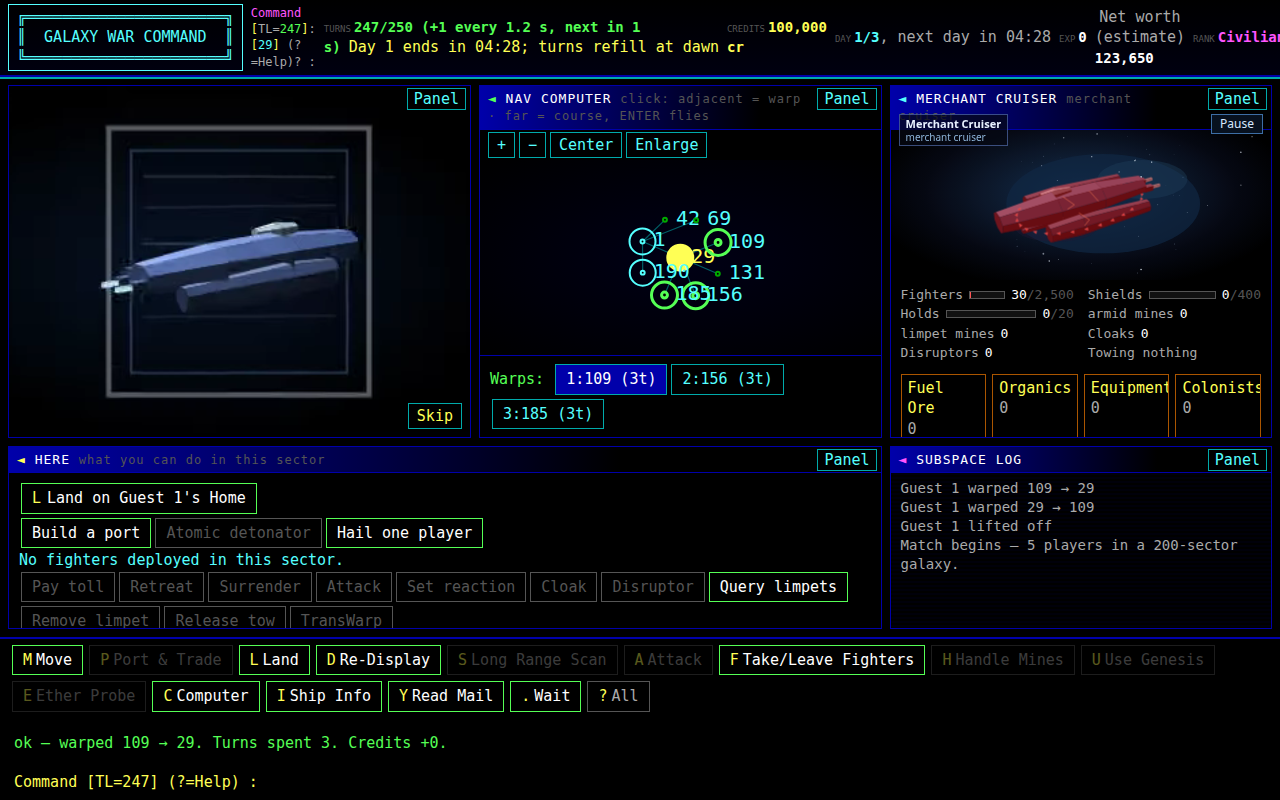
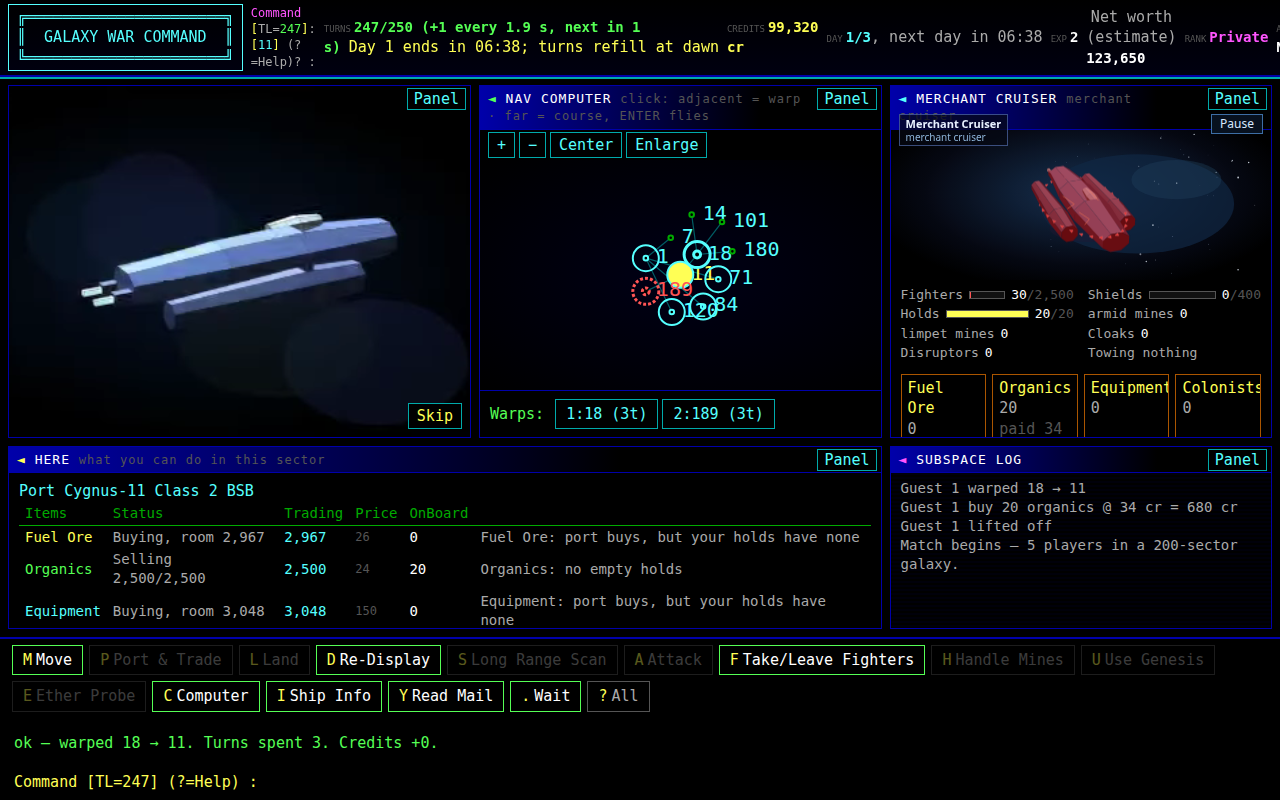
Print a copyable cockpit link per seat and trade on the scripted seat's own turn.
The created page uses the Cloudflare origin when the request is forwarded, and the scripted runner waits for YOUR MOVE so a day-1 buy and sell can land. The 3-day dry run is in PLAYTEST3_DRYRUN.md.

diff --git a/scripts/ai_cockpit/runner.py b/scripts/ai_cockpit/runner.py
@@ -717,7 +717,7 @@ def _play(
                                 break
                             continue
                         idle = 0
-                    if chip != "YOUR MOVE":
+                    if not seat_may_act(chip):
                         # The server is not offering a turn. A click from here never lands.
                         _write_log(log_path, "waiting for the turn")
                         idle += 1
@@ -874,6 +874,15 @@ def _chip(page) -> str:
         return ""
 
 
+def seat_may_act(chip: str) -> bool:
+    """Clicks only on this seat's own turn.
+
+    A warp clicked while the chip says WAITING is queued and fires later,
+    which moves the ship before the trade click can land.
+    """
+    return (chip or "").strip() == "YOUR MOVE"
+
+
 def _wait_chip(page) -> None:
     """Wait until the seat can act, or the game has stopped asking."""
     # 20s missed the chip on the loaded Windows box. The seat stays attended
@@ -984,16 +993,58 @@ def _act(page, action: Action):
     if action.op == "type":
         _type(page, action)
         return None
-    target = _locator(page, action)
     if _opens_manual(action):
+        target = _locator(page, action)
         with page.expect_popup(timeout=8_000) as popup:
             target.click(timeout=8_000)
         manual = popup.value
         manual.wait_for_load_state("domcontentloaded", timeout=15_000)
         return manual
+    if _click_visible(page, action):
+        return None
+    target = _locator(page, action)
     target.click(timeout=8_000)
     page.wait_for_timeout(300)
     return None
+
+
+_CLICK_LABEL = r"""
+(label) => {
+  const want = String(label || "").replace(/\s+/g, " ").trim().toLowerCase();
+  if (!want) return false;
+  const nodes = document.querySelectorAll("#here button, #here a, button, a");
+  for (const el of nodes) {
+    if (el.disabled || el.classList.contains("dim")) continue;
+    const style = getComputedStyle(el);
+    if (style.display === "none" || style.visibility === "hidden") continue;
+    if (style.pointerEvents === "none") continue;
+    const text = (el.innerText || el.getAttribute("aria-label") || "").replace(/\s+/g, " ").trim().toLowerCase();
+    if (text !== want) continue;
+    const box = el.getBoundingClientRect();
+    if (box.width < 1 || box.height < 1) continue;
+    el.click();
+    return true;
+  }
+  return false;
+}
+"""
+
+
+def _click_visible(page, action: Action) -> bool:
+    """Click a visible control by its exact label, retrying while the table rebuilds."""
+    label = (action.label or "").strip()
+    if not label or action.selector:
+        return False
+    for _ in range(8):
+        try:
+            hit = bool(page.evaluate(_CLICK_LABEL, label))
+        except Exception:
+            hit = False
+        if hit:
+            page.wait_for_timeout(300)
+            return True
+        page.wait_for_timeout(250)
+    return False
 
 
 def _type(page, action: Action) -> None:

diff --git a/tests/test_selfhost_beta_v1.py b/tests/test_selfhost_beta_v1.py
@@ -291,6 +291,7 @@ def test_item2_seat_token_is_handed_over_once_and_only_hashed(make_lobby, tmp_pa
     r2 = c.post(f"/api/games/{g['id']}/resume", json={})
     token2 = r2.json()["claim_url"].split("token=")[1]
     assert token2 == token
+    assert lob.seat_links[g["id"]]["P1"] == token
     assert lob.store.seats(g["id"])[0]["token_hash"] == hashlib.sha256(token2.encode()).hexdigest()
     other = TestClient(c.app)
     _accept(other)
@@ -365,6 +366,52 @@ def test_item2_one_join_link_per_open_seat(make_lobby) -> None:
     assert friend.get(f"/join/{g['id']}/P2?k=wrong").status_code == 404
     r = friend.post(f"/api/games/{g['id']}/join", json={"seat": "P2", "k": k})
     assert r.status_code == 200 and r.json()["seat"] == "P2"
+
+
+def test_created_page_prints_one_copyable_cockpit_link_per_seat(make_lobby) -> None:
+    """Each human seat gets an https cockpit link when the request is forwarded."""
+    from tw2k.public.workers import seat_ids
+
+    c, lob = make_lobby(client=("127.0.0.1", 5000))
+    real = lob.start_game
+
+    async def start(gid, *, resume):
+        ok = await real(gid, resume=resume)
+        game = lob.store.game(gid) or {}
+        humans = int((game.get("settings") or {}).get("humans") or 1)
+        lob.seat_links[gid] = {seat: f"tok{seat}" for seat in seat_ids(humans)}
+        return ok
+
+    lob.start_game = start
+    _accept(c)
+    headers = {
+        "host": "127.0.0.1:8020",
+        "x-forwarded-host": "blue-pond.trycloudflare.com",
+        "x-forwarded-proto": "https",
+    }
+    r = c.post("/api/games", json={"name": "Links", "humans": 2}, headers=headers)
+    assert r.status_code == 200, r.text
+    body = r.json()
+    gid = body["id"]
+    links = body["cockpit_links"]
+    assert sorted(links) == ["P1", "P2"]
+    for seat in ("P1", "P2"):
+        assert links[seat] == (
+            f"https://blue-pond.trycloudflare.com/g/{gid}/bot?seat={seat}&token=tok{seat}&layout=redesign"
+        )
+    page = c.post("/new", data={"name": "Page", "humans": "2"}, headers=headers)
+    assert page.status_code == 200, page.text
+    assert "user-select:all" in page.text
+    assert page.text.count('data-testid="seat-link"') == 2
+    assert "layout=redesign" in page.text
+    assert "Send each player their cockpit link" in page.text
+    assert "Lobby invite P1" in page.text
+    opened = c.get(f"/g/{gid}/bot?seat=P1&token=tokP1", headers={"accept": "text/html"})
+    assert opened.status_code == 200
+    guest = lob.store.guest(hashlib.sha256(c.cookies.get("gwc_guest").encode()).hexdigest())
+    assert lob.store.guest_seat(gid, guest["id"]) == "P1"
+    c.get(f"/g/{gid}/bot?seat=P2&token=not-the-token", headers={"accept": "text/html"})
+    assert lob.store.seats(gid)[1]["guest_id"] is None
 
 
 def _lock_app() -> Starlette:

diff --git a/tests/test_ai_cockpit_player_v1.py b/tests/test_ai_cockpit_player_v1.py
@@ -308,6 +308,55 @@ def _view(screen: dict, *, manual: bool = True, labels: list[str] | None = None)
     return TurnView("screen", shown, b"", manual, "Getting started", 1, screen=screen)
 
 
+def test_the_scripted_seat_acts_only_on_its_own_turn() -> None:
+    sys.path.insert(0, str(REPO / "scripts"))
+    from ai_cockpit.runner import seat_may_act
+
+    assert seat_may_act("YOUR MOVE")
+    assert not seat_may_act("WAITING")
+    assert not seat_may_act("")
+    assert not seat_may_act("NO TURNS")
+
+
+def test_day_one_known_pair_buys_then_sells() -> None:
+    sys.path.insert(0, str(REPO / "scripts"))
+    from ai_cockpit.trader import ScriptedTrader
+
+    trader = ScriptedTrader(level="hard")
+    trader.ports[20] = {"Organics": {"bid": 30}}
+    trader.links[20] = {12: 3}
+    bought = trader.decide(_view({
+        "sector": "12", "day": "1", "turns": "240", "credits": "100,000 cr", "chip": "YOUR MOVE",
+        "maxDay": "3",
+        "holds": "Fuel Ore 0 Organics 0 Equipment 0",
+        "ship": "Holds 0/20",
+        "port": "Port Example Class 2 BSS",
+        "here": "Port Example Class 2 BSS",
+        "rows": [{
+            "cells": ["Organics", "Selling 500/2000", "500", "12", "0"],
+            "button": "BUY 20",
+        }],
+        "labels": ["BUY 20", "1:20 (3t)"],
+        "warps": ["1:20 (3t)"],
+    }))
+    assert bought.op == "click" and bought.label == "BUY 20"
+    sold = trader.decide(_view({
+        "sector": "20", "day": "1", "turns": "236", "credits": "99,760 cr", "chip": "YOUR MOVE",
+        "maxDay": "3",
+        "holds": "Fuel Ore 0 Organics 20 Equipment 0",
+        "ship": "Holds 20/20",
+        "port": "Port Buyer Class 2 SBS",
+        "here": "Port Buyer Class 2 SBS",
+        "rows": [{
+            "cells": ["Organics", "Buying, room 1000", "1000", "30", "20"],
+            "button": "SELL 20",
+        }],
+        "labels": ["SELL 20", "1:12 (3t)"],
+        "warps": ["1:12 (3t)"],
+    }))
+    assert sold.op == "click" and sold.label == "SELL 20"
+
+
 def test_the_scripted_trader_pairs_ports_haggles_and_avoids_danger() -> None:
     sys.path.insert(0, str(REPO / "scripts"))
     from ai_cockpit.trader import ScriptedTrader

diff --git a/src/tw2k/public/pages.py b/src/tw2k/public/pages.py
@@ -52,7 +52,7 @@ legend{color:#ffd27f;padding:0 6px}
 .err{background:#3a1212;border:1px solid #a33;border-radius:8px;padding:10px 14px}
 .note{color:#8aa0b8;font-size:14px}
 ul.points li{margin:6px 0}
-code.link{display:block;word-break:break-all;background:#070b14;border:1px solid #1f2d45;padding:8px;border-radius:6px}
+code.link{display:block;word-break:break-all;user-select:all;-webkit-user-select:all;cursor:text;background:#070b14;border:1px solid #1f2d45;padding:8px;border-radius:6px}
 footer{border-top:1px solid #142034;padding:14px 16px 20px;font-size:14px;color:#8aa0b8;text-align:center}
 @media (max-width:600px){table.games thead{display:none}table.games td{display:block;border:0;padding:4px 0}
   table.games tr{display:block;border-bottom:1px solid #1a2638;padding:8px 0}}
@@ -645,7 +645,8 @@ def created(brand: str, *, game: dict[str, Any], join_links: list[tuple[str, str
             f"{rows}"
         )
         links = "".join(
-            f"<p>Lobby invite {escape(seat)}<code class=\"link\">{escape(url)}</code></p>" for seat, url in join_links
+            f"<p>Lobby invite {escape(seat)}<code class=\"link\">{escape(url)}</code></p>"
+            for seat, url in join_links
         )
         invite_note = (
             "<p>A lobby invite asks the player to confirm, then opens the same cockpit. "

diff --git a/src/tw2k/public/lobby.py b/src/tw2k/public/lobby.py
@@ -277,6 +277,7 @@ class Lobby:
                 self._launch_cockpit(gid)
                 return True
             log.warning("start game=%s: worker did not come up", gid)
+            self.seat_links.pop(gid, None)
             self._drop_cockpit(gid, forget=True)
             await self.workers.stop(gid, lobby_secret=self.secrets.lobby_secret(gid),
                                     spectator_token=self.secrets.spectator_token(gid), graceful=False)
@@ -521,6 +522,7 @@ class Lobby:
         async with self.lock(gid):
             self._drop_ai(gid)
             self._drop_cockpit(gid)
+            self.seat_links.pop(gid, None)
             await self.workers.stop(gid, lobby_secret=self.secrets.lobby_secret(gid),
                                     spectator_token=self.secrets.spectator_token(gid), graceful=graceful)
             self.store.set_game(gid, status=status, pid=None)
@@ -898,6 +900,7 @@ class Lobby:
             if not ok:
                 self._drop_ai(gid)
                 self._drop_cockpit(gid, forget=True)
+                self.seat_links.pop(gid, None)
         if not ok:
             return self._api_or(api, 503, "The game could not start. Please try again later.", request)
         g = self.store.game(gid)

diff --git a/docs/playtests/PLAYTEST3_DRYRUN.md b/docs/playtests/PLAYTEST3_DRYRUN.md
@@ -1,55 +1,76 @@
 # Playtest 3 dry run
 
-NOTE 153. Checklist: `docs/playtests/PLAYTEST3_READINESS.md` on `track-g-note136` (that file is not on this tip). This run followed that list on `feature/grokbot-player` at `ea20cf86`, with the two routing fixes below.
+NOTE 155. Checklist: `docs/playtests/PLAYTEST3_READINESS.md` on `track-g-note136` (that file is not on this tip). This run was recorded on `feature/grokbot-player` at `7b831056`, branch `track-g-note155`. The commit is replayed onto `fdd4f11`.
 
-Game `7b31c521`, "Playtest 3 dry run". Lobby `127.0.0.1:8020`, worker `8021`. State `/tmp/playtest3-dryrun2` (not in the repo). `V311_PROFILE=v311` came from the form's v3.11 rule set. Shots are in `playtest3-dryrun-v1/`.
+Game `176a6837`, "Playtest 3 dry run". Lobby `127.0.0.1:8020`, worker `8023`. State `/tmp/playtest3-dryrun10` (not in the repo). `V311_PROFILE=v311` came from the form's v3.11 rule set. Shots are in `playtest3-dryrun-v1/`.
 
 ## Ports
 
-The lobby refuses 8031–8098, so the open pockets inside that block cannot host it. 8099–8119 are the standing lobby. This run used 8020 for the lobby and 8021 for the game. Both are outside 8031–8037, 8041, 8042, 8045–8049, 8055–8119, and 8099–8119.
+The lobby refuses 8031–8098, so the open pockets inside that block cannot host it. 8099–8119 are the standing lobby. This run used 8020 for the lobby and 8023 for the game. Both are outside 8031–8037, 8041, 8042, 8045–8049, 8055–8119, and 8099–8119.
 
 ## Lineup
 
 The readiness list asks for a full-length 2-day game, one scripted cockpit, one code bot, and one heuristic AI opponent. This note asks for 3 fast days, 2 human browser seats, and 2 AI cockpit seats. The dry run used that request:
 
 - Rule set v3.11, 100,000 credits, Original 250 turns, 200 sectors, 3 days
-- Game length fast, day length 300 seconds (a `5m` preset added for this lobby only)
+- Game length fast, day length 480 seconds (the `8m` preset on this lobby only)
 - 2 human seats, 1 code bot (Vega), 0 harness AI opponents, Ferrengi on
 - 2 scripted hard AI cockpit seats
 - Listed, hold the clock until the first player opens a seat
 
 `AI_COCKPIT_SEAT_MODE` stays `legacy` in the tree. The lobby process set it to `tw2002` before `run()`, which is what shows the cockpit checkbox. v3.11 does not turn that switch on by itself.
 
-## Fixes before the rerun
+## What changed for this pass
 
-Two small public-mode bugs stopped the first pass. The engine was not changed. Profile-off behavior is unchanged. The scripted-match digests were not at risk.
+The engine was left alone. `/bot` (the old page) was left alone. No profile-off guard moved. The scripted-match digests were not re-run; no engine file changed, so they stay at `24863a3d` for seed 250925 and `98a47c8a` for seed 4242.
 
-1. A browser on the worker's own `/bot` page, which is how the scripted cockpit seat opens, asks for `/g/<id>/static` and `/g/<id>/harness` because the page is rewritten with `TW2K_BASE_PATH`. The worker only served those routes without the prefix, so the script loaded and the screen stayed `day=- turns=-- sector=-`. `AcceptBasePath` strips that prefix on the worker. The public lock still sees the path after the strip, so `/control` stays closed.
-2. The in-game Manual link is rewritten to `/g/<id>/manual`. `/manual` was outside the open list, so the cockpit received `{"detail":"not available in this game"}`. `/manual` is now an open path. The player manual has no seat token.
+1. The created page prints one cockpit link per human seat. The link is `seat_link`: `{origin}/g/{id}/bot?seat=…&token=…&layout=redesign`. The origin is the Cloudflare share base when the request arrives on loopback with `X-Forwarded-Host` and `X-Forwarded-Proto: https`. The link is plain text in `code.link` with `user-select: all`, so it can be copied. Opening that link claims the seat for the guest, which is how the creator ends the game. A later resume in the same lobby process keeps the published human token, so the printed link still matches. The raw token stays out of sqlite; the lobby stores the sha256 only.
+2. The scripted seat acts only when the chip says `YOUR MOVE`. A click while the chip says `WAITING` was queued and fired on a later turn, so the buy and the sell missed day 1. The runner now waits out `WAITING` and clicks the visible trade button by its exact label. On a known one-hop pair the scripted trader's first two decisions are a buy and then a sell.
+3. The worker serves `/g/<id>/manual` and `/g/<id>/static` on its own port. The scripted seat opens the worker directly, and the rewritten page asks for those prefixed paths. `/control` stays closed after the prefix is stripped.
 
-After the fix the scripted seats parsed the screen and played. P3 log: `screen day=1 turns=250 credits=100,000 cr nw=123,650 chip=YOUR MOVE sector=189`, then lift off and warps. By day 3, P3 had sold cargo (`credits=102,280`) and P4 had bought and sold (`step 69 click BUY 32`).
+The earlier Guest 1 miss was the dry-run driver. It left the port after one hop and treated the previous result line as a new trade. This run waits until the result line itself says `buy` or `sell`. Both human seats bought on day 1.
+
+The second human fight needs both seats in Vega's sector before either one attacks. The first hit, taken while the other seat is still buying fighters, lets Vega leave before the second seat presses A. This run held the second seat until both had fighters, then seat 1 struck and seat 2 struck on the following turn, while the scheduler was still waiting on seat 2.
 
 ## Checklist
 
 | Item | Result | Evidence |
 | --- | --- | --- |
 | Disclaimer, "I understand" | Pass | `playtest3-dryrun-v1/01-disclaimer.png` |
-| New-game lineup above | Pass | `02b-form-filled.png`, created page "Day length: 300s" |
+| New-game lineup above | Pass | `02b-form-filled.png`. Created page: "Day length: 480s". |
 | Created page: scripted cockpit running | Pass | "AI cockpit seat P3: scripted hard, running" and the same for P4. `03-created.png` |
-| Created page: https token cockpit links with `layout=redesign` | Fail | The page prints lobby join links, `http://127.0.0.1:8020/join/7b31c521/P1?k=…` and P2. Opening one lands on `/g/7b31c521/bot?seat=P1&mode=cu`, which is the redesign cockpit. The link itself has no `token` and no `layout=redesign`. That shape is the unmerged note 136 created page. |
-| Both seats land at home, 100,000 cr, 250/250, YOUR MOVE, day line | Pass | P1 sector 29, "You are LANDED on Guest 1's Home", `TURNS250/250 (full)`, "Day 1 ends in 04:56", YOUR MOVE, 100,000 cr. `04-cockpit-p1.png`. P2 sector 147, Guest 2's Home, same pocket, first paint was WAITING until P1 moved. `04-cockpit-p2.png`. The turn line and the day line sit in the header stat, and both were readable at 1280. |
+| Created page: per-seat cockpit link, token, `layout=redesign`, copyable, https when sharing is on | Pass | The scratch lobby has no tunnel, so the page printed `http://127.0.0.1:8020/g/176a6837/bot?seat=P1&token=…&layout=redesign` and the same for P2, under "Send each player their cockpit link." The link is a text block. The same builder, given `X-Forwarded-Host: blue-pond.trycloudflare.com` and `X-Forwarded-Proto: https`, prints `https://blue-pond.trycloudflare.com/g/{id}/bot?seat=P1&token=…&layout=redesign`. `tests/test_selfhost_beta_v1.py::test_created_page_prints_one_copyable_cockpit_link_per_seat` checks that URL, `user-select:all`, and that opening P1's link claims P1. `03-created.png` |
+| Both seats land at home, 100,000 cr, 250/250, YOUR MOVE, day line | Pass | P1 sector 18, "You are LANDED on Guest 1's Home", `TURNS250/250 (full)`, "Day 1 ends in 07:58", YOUR MOVE, 100,000 cr. `04-cockpit-p1.png`. P2 sector 40, Guest 2's Home, same pocket; the first paint was WAITING until P1 moved. `04-cockpit-p2.png`. The turn line and the day line sit in the header stat, and both were readable at 1280. |
 | Q, lift off, "ok — lifted off." | Pass | Both seats: "ok — lifted off. Turns spent 1. Credits +0." `06-liftoff-P1.png`, `06-liftoff-P2.png` |
-| Trade at a BUY or SELL port | Pass on P2, fail on P1 | P2 at Beta-147 Class 5 (SBS) clicked BUY 20. The match log is `Guest 2 buy 20 fuel_ore @ 15cr = 300cr`. End credits 88,817 match 100,000 − 300 − 1,015 fighters − 9,868 tax. Holds at the end were 20/20. `07-trade-P2.png`. P1's first ports had nothing to sell into empty holds, and the driver moved on after one hop. Guest 1 has no trade event. End credits 89,087 match 100,000 − 1,015 − 9,898 tax. |
-| Warp one hop, clip, turn drop | Pass | P1 `1:29 (3t)`, clip `merchant_cruiser.gate.06`, "ok — warped 109 → 29. Turns spent 3." `08-warp-clip-P1.png`, `08-warp-P1.png`. P2 clip `merchant_cruiser.streak.01`, "ok — warped 147 → 15. Turns spent 3." |
+| Trade at a BUY or SELL port | Pass | P1 at sector 18: "ok — buy 20 organics @ 34 cr = 680 cr." Event: "Guest 1 buy 20 organics @ 34cr = 680cr". `07-trade-P1.png`. P2 at sector 40: "ok — buy 20 fuel ore @ 17 cr = 340 cr." Event: "Guest 2 buy 20 fuel_ore @ 17cr = 340cr". `07-trade-P2.png` |
+| Warp one hop, clip, turn drop | Pass | P1 `1:11 (3t)`, clip `merchant_cruiser.chase.10`, "ok — warped 18 → 11. Turns spent 3." `08-warp-clip-P1.png`. P2 `1:49 (3t)`, clip `merchant_cruiser.gate.06`, "ok — warped 40 → 49. Turns spent 3." `08-warp-clip-P2.png` |
 | StarDock, Class 9, Terra unclaimable | Pass | Both reached sector 1. "Sol-1 StarDock, Class 9 (STARDOCK)". "Terra (colonist source, cannot be claimed)." `09-stardock-P1.png` |
-| Buy fighters, "ok — bought … fighters" | Pass | Both: "ok — bought 5 fighters for 1,015 cr." `10-fighters-P1.png` |
-| Fight the code bot | Pass | Attack list: "Vega, a Merchant Cruiser, 430 fighters, 0 shields (code bot)". Both seats sent 10 fighters in sector 1. Log: "Combat in 1: Guest 1 sent 10 fighters, lost 10; Vega lost 0 shields and 10 fighters" and the same line for Guest 2. Fighters on the day-2 header are 25 (30 starting + 5 bought − 10 lost). `11-combat-P1.png` shows Vega in sector 1; the result line in that shot is still the fighter purchase because the driver matched the previous ok line. |
-| Manual is the v3.11 player manual, with the full-length paragraph | Pass for the manual, fail for that paragraph | Both seats opened Manual from the header. Title "Galaxy War Command", "These numbers are this game's settings", Profile row v3.11. `12-manual-P1.png`. The fast game's page does not include "Full-length games use a 24-hour day". That paragraph is added when the game is full-length. This run was a 300-second day. |
+| Buy fighters, "ok — bought … fighters" | Pass | Both: "ok — bought 5 fighters for 1,015 cr. Turns spent 0." `10-fighters-P1.png`, `10-fighters-P2.png` |
+| Fight the code bot | Pass | Both seats sent 10 fighters at Vega in sector 1. P1: "You lost 10 fighters and 0 shields, 25 fighters remain. Vega lost 10 fighters and 0 shields." P2: the same line, Vega then on 410 fighters. Events: "Combat in 1: Guest 1 sent 10 fighters, lost 10; Vega lost 0 shields and 10 fighters" and the same for Guest 2. `11-combat-P1.png`, `11-combat-P2.png` |
+| Manual is the v3.11 player manual | Pass | Both seats opened Manual from the header. Title "Galaxy War Command", "These numbers are this game's settings", Profile row v3.11. `12-manual-P1.png` |
+| Manual includes the full-length 24-hour paragraph | N/A | This was a fast game (480-second day). That paragraph is printed for a full-length game. The fast game's manual does not include it, and the manual renderer was left unchanged. |
 | Layout: larger font, then Reset layout | Pass | Both seats: computed `--cockpit-font` was `17px`, then `default` after Reset layout. `13-layout-P1.png`, `14-layout-reset-P1.png` |
-| Day 2, each seat acts | Pass | Header DAY 2/3. Subspace log "Day 2 dawns". P1 "ok — warped 1 → 42" clip `merchant_cruiser.headon.03`. P2 the same hop, clip `merchant_cruiser.chase.02`. `08-warp-P1-day2.png` |
-| Day 3, each seat acts | Pass | Header DAY 3/3. P1 "ok — warped 42 → 1. Turns spent 3, 1 came back." clip `merchant_cruiser.headon.07`. P2 the same hop, clip `merchant_cruiser.top.08`. `08-warp-P1-day3.png` |
-| Creator ends the game | Pass | `?` menu, End game for everyone, confirm. Header chip GAME OVER. Panel on P1: "GAME OVER - Ended by the game's creator. Decided by experience: 1st AI cockpit 2 10, 2nd AI cockpit 1 8, 3rd Vega 4, 4th Guest 2 3, 5th Guest 1 1. You finished 5th of 5." P2 shows the same ranking and "You finished 4th of 5." Match event: "Ended by the game's creator. AI cockpit 2 leads on experience (10)". `16-game-over-p1.png`, `16-game-over-p2.png` |
+| Day 2, each seat acts | Pass | "Day 2 dawns". P1 "ok — warped 1 → 7. Turns spent 3, 1 came back." clip `merchant_cruiser.side.09`. P2 "ok — warped 1 → 7. Turns spent 3." clip `merchant_cruiser.headon.03`. `08-warp-P1-day2.png`, `08-warp-P2-day2.png` |
+| Day 3, each seat acts | Pass | "Day 3 dawns". Header DAY 3/3. P1 "ok — warped 7 → 1. Turns spent 3." clip `merchant_cruiser.side.05`. P2 "ok — warped 7 → 1. Turns spent 3, 1 came back." clip `merchant_cruiser.top.08`. `08-warp-P1-day3.png` |
+| Scripted AI seats trade on day 1 | Pass | While the screen still said day 1, P3 clicked `step 10 BUY 20` and `step 13 SELL 20` (and a second pair at steps 16 and 19). P4 clicked `step 9 BUY 20` and `step 12 SELL 20` (and a second pair at steps 15 and 18). Events before dawn: "AI cockpit 1 buy 20 organics @ 29cr = 580cr" and "AI cockpit 1 sell 20 organics @ 62cr = 1240cr (+660cr profit)". The same buy and sell for AI cockpit 2. |
+| Creator ends the game | Pass | `?` menu, End game for everyone, confirm. Header chip GAME OVER. Panel on P1: "GAME OVER - Ended by the game's creator. Decided by experience: 1st AI cockpit 2 21, 2nd AI cockpit 1 20, 3rd Vega 11, 4th Guest 1 4, 5th Guest 2 4. You finished 4th of 5." Match event: "Ended by the game's creator. AI cockpit 2 leads on experience (21)". Scores P4 21, P3 20, Vega 11, Guest 1 4, Guest 2 4. `16-game-over-p1.png`, `16-game-over-p2.png` |
 
-## What this run changed in the tree
+## Shots
 
-`src/tw2k/public/worker.py` adds `AcceptBasePath` and puts `/manual` on the open list. `tests/test_selfhost_beta_v1.py` covers the prefixed manual and static routes, and checks that `/g/<id>/control/end` still answers only the lobby. No profile helper was added. No profile-off guard moved.
+![Created page, cockpit links](playtest3-dryrun-v1/03-created.png)
+
+![Landed, 100,000 credits](playtest3-dryrun-v1/04-cockpit-p1.png)
+
+![Guest 1 buys organics](playtest3-dryrun-v1/07-trade-P1.png)
+
+![Guest 2 buys fuel](playtest3-dryrun-v1/07-trade-P2.png)
+
+![StarDock](playtest3-dryrun-v1/09-stardock-P1.png)
+
+![Guest 1 fights Vega](playtest3-dryrun-v1/11-combat-P1.png)
+
+![Guest 2 fights Vega](playtest3-dryrun-v1/11-combat-P2.png)
+
+![Manual, profile v3.11](playtest3-dryrun-v1/12-manual-P1.png)
+
+![Game over](playtest3-dryrun-v1/16-game-over-p1.png)
